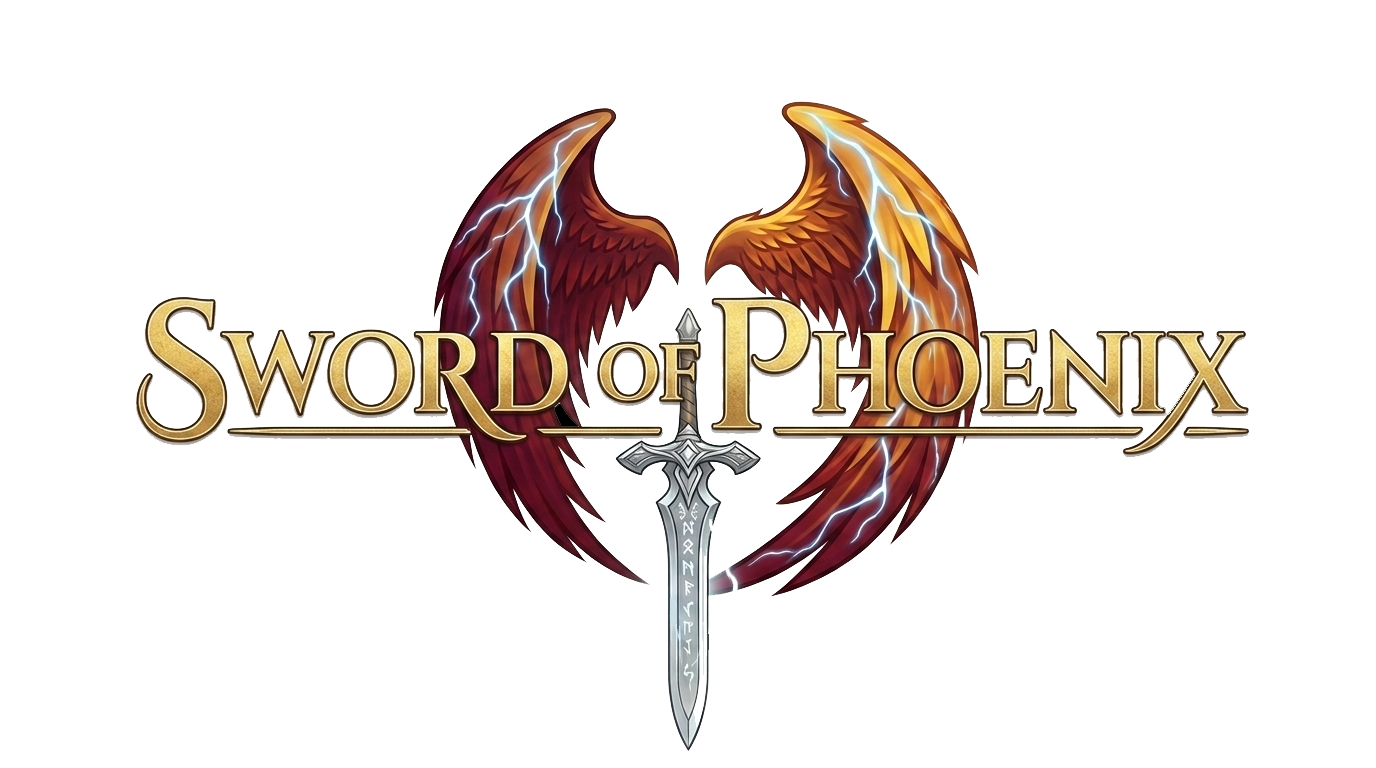
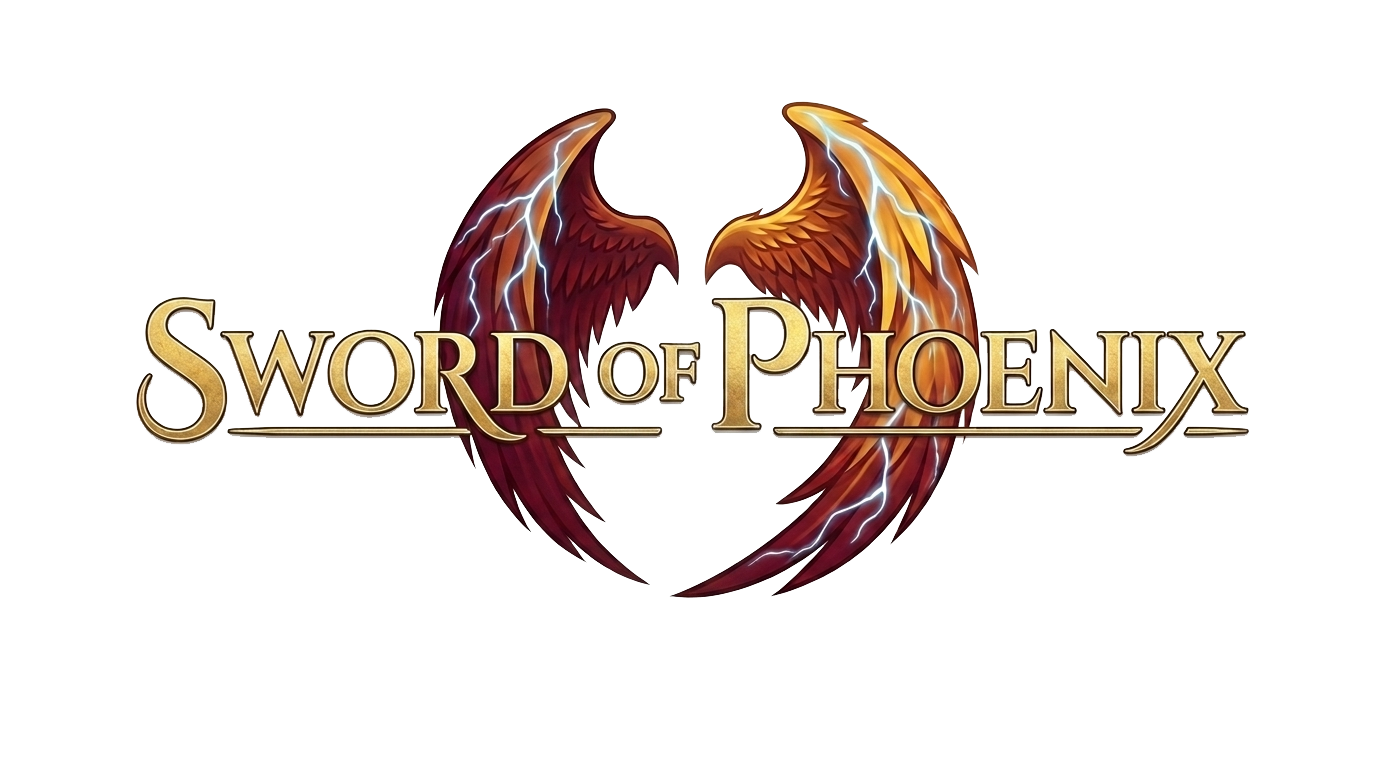
タイトル改良

Changed region(s): [[0.4375, 0.4062, 0.5625, 0.9688], [0.4062, 0.5312, 0.4375, 0.5625]]

diff --git a/Project/Source/Scenes/SceneTitle.cpp b/Project/Source/Scenes/SceneTitle.cpp
@@ -3,6 +3,7 @@
 #include "Singleton/Input.h"
 #include "SceneManager.h"
 #include "Game.h"
+#include "Singleton/EffectManager.h"
 
 #include "SceneMain.h"
 #include "SceneOption.h"
@@ -27,12 +28,21 @@ SceneTitle::SceneTitle(SceneManager& sceneManager) :
 
 void SceneTitle::Init()
 {
-	m_titleGraphHandle = LoadGraph(L"data/Graphs/title.png");
+	m_titleHandle = LoadGraph(L"data/Graphs/title.png");
+	m_titleBackHandle = LoadGraph(L"data/Graphs/StoneBrick.png");
+	EffectManager::GetInstance().LoadEffect(L"data/effects/TitleBackFlame.efkefc", L"TitleBackFlame", 100.0f);
+
+	m_effHandle = EffectManager::GetInstance().PlayEffect(L"TitleBackFlame", Vector3::Zero());
+
+	SetCameraPositionAndTarget_UpVecY(Vector3(0, 50, -500), Vector3(0, 50, 0));
+	Effekseer_Sync3DSetting();
 }
 
 void SceneTitle::End()
 {
-	DeleteGraph(m_titleGraphHandle);
+	DeleteGraph(m_titleHandle);
+	DeleteGraph(m_titleBackHandle);
+	EffectManager::GetInstance().StopEffect(m_effHandle);
 }
 
 void SceneTitle::Update()
@@ -62,11 +72,17 @@ void SceneTitle::Update()
 		m_menuActions[m_selectIndex].action();
 		return;
 	}
+
+	EffectManager::GetInstance().Update();
 }
 
 void SceneTitle::Draw()
 {
-	DrawRotaGraph(Game::kScreenWidth / 2, Game::kScreenHeight / 2 - 100, 0.8, 0.0, m_titleGraphHandle, true);
+	DrawRotaGraph(Game::kScreenWidth / 2, Game::kScreenHeight / 2, 1.3, 0.0, m_titleBackHandle, false);
+
+	EffectManager::GetInstance().Draw();
+
+	DrawRotaGraph(Game::kScreenWidth / 2, Game::kScreenHeight / 2, 0.8, 0.0, m_titleHandle, true);
 
 	int x = Game::kScreenWidth / 2;
 	int y = Game::kScreenHeight / 2 + 250;
@@ -80,6 +96,7 @@ void SceneTitle::Draw()
 
 #ifdef _DEBUG
 	DrawString(0, 0, L"SceneTitle", 0xffffff);
+	//DrawGrid();
 #endif
 }
 

diff --git a/Project/Source/Scenes/SceneTitle.h b/Project/Source/Scenes/SceneTitle.h
@@ -37,7 +37,9 @@ private:
     };
 
 private:
-    int m_titleGraphHandle = -1;
+    int m_titleHandle = -1;
+    int m_titleBackHandle = -1;
+    int m_effHandle = -1;
 
     int m_selectIndex = 0;
     std::array<MenuItem, static_cast<int>(Menu::Num)> m_menuActions;
